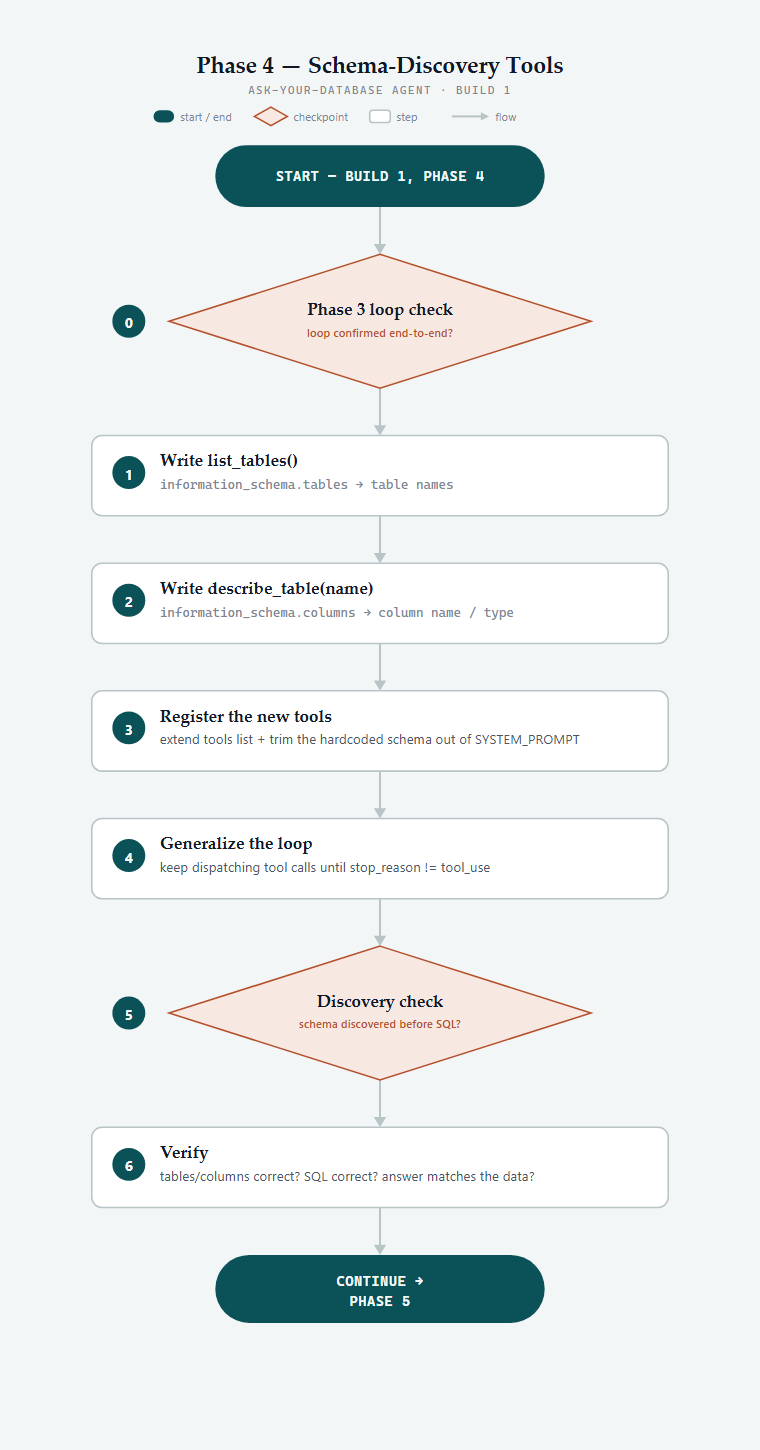
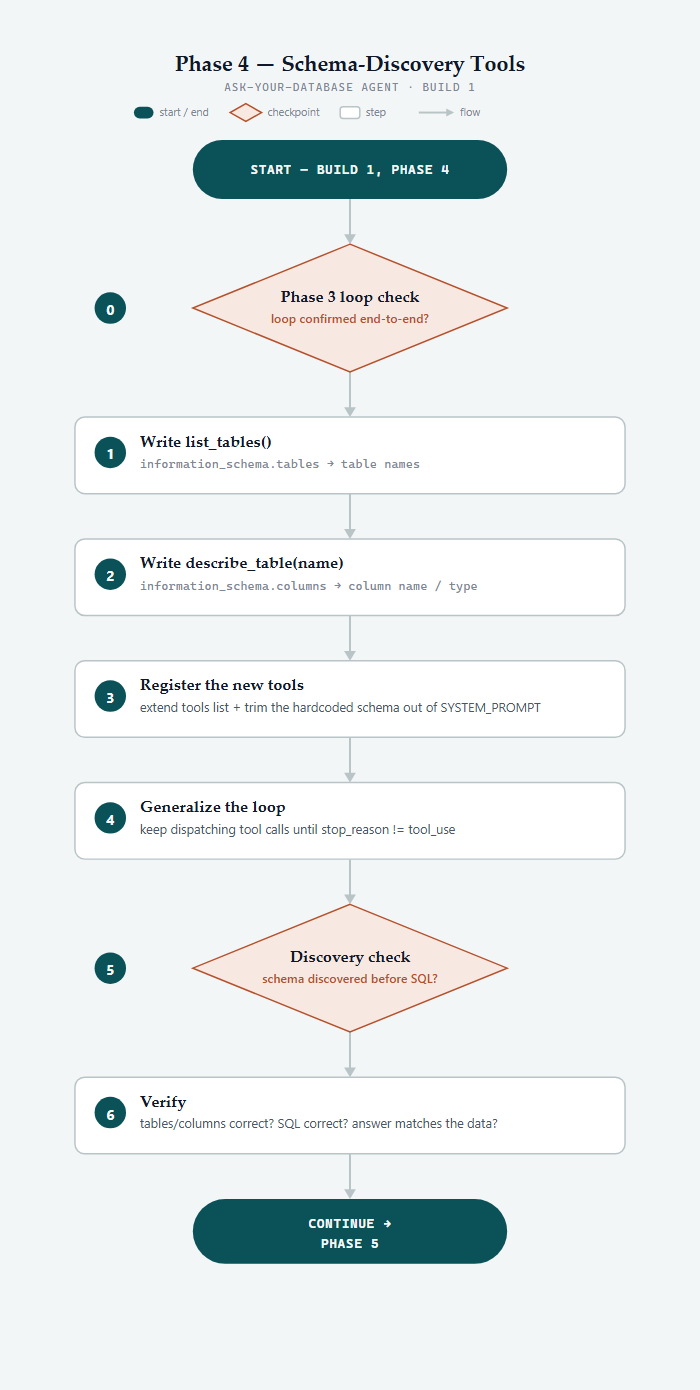
Fix diamond text overflow across diagrams, add hardening-pass diagram
phase4 and phase6 had decision-q text overflowing the diamond nodes'
actual rendered bounds - the fix was previously applied only to the
rendered PNGs and never written back into the SVG/HTML source, so it
silently regressed. Shortened decision-q text on both and re-verified
every diagram visually (rendered PNG, not just source) rather than
trusting the diff.

Also corrects phase6's end pill, which claimed Build 1 was complete
before the loop-cap/error-handling hardening pass actually happened,
and adds a new diagram for that hardening pass plus one for Build 2
Phase 1 (the raw ingestion layer).

diff --git a/PROJECT_DIAGRAMS/build1-hardening-pass-flow-diagram.html b/PROJECT_DIAGRAMS/build1-hardening-pass-flow-diagram.html
@@ -2,7 +2,7 @@
 <html lang="en">
 <head>
 <meta charset="UTF-8">
-<title>Phase 6 Flow — Containerize the Agent</title>
+<title>Build 1 Hardening Pass Flow — Loop Safety &amp; Error Handling</title>
 <style>
   * { box-sizing: border-box; }
   html, body { margin: 0; background: #F3F6F7; }
@@ -14,8 +14,8 @@
 <body>
 <div class="frame">
 <svg xmlns="http://www.w3.org/2000/svg" viewBox="0 0 680 1300" width="680" height="1300" role="img" aria-labelledby="title desc">
-  <title id="title">Phase 6 flow: containerizing the agent as a compose service</title>
-  <desc id="desc">Flowchart: start, a checkpoint confirming Phase 5's hardening (read-only role, SQL guard, query logging) is committed and verified, writing a Dockerfile for the agent, adding an agent service to docker-compose.yml, switching the database host to the internal Docker network service name, wiring secrets into the container via env_file, a decision testing that docker compose up starts and connects the agent, a verify step, then Build 1 is complete and continues to Build 2.</desc>
+  <title id="title">Build 1 hardening pass flow: loop safety and error handling</title>
+  <desc id="desc">Flowchart: start, a checkpoint confirming Phase 6's containerized agent is committed, fixing a multi-tool-call bug where try/except sat outside the results loop, adding a MAX_TOOL_TURNS cap with while/else, wrapping the Anthropic API call for error handling, auditing every project file for indentation and syntax, a decision testing the loop cap fires cleanly, a verify step, then Build 1 is truly complete and continues to Build 2.</desc>
   <style>
     text { font-family: -apple-system, BlinkMacSystemFont, "Segoe UI", Roboto, sans-serif; fill: #101827; }
     .heading    { font-family: "Iowan Old Style", "Palatino Linotype", Palatino, "Book Antiqua", Georgia, serif; font-size: 22px; font-weight: 600; }
@@ -38,8 +38,8 @@
 
   <rect x="0" y="0" width="680" height="1300" fill="#F3F6F7"/>
 
-  <text x="340" y="40" class="heading" text-anchor="middle">Phase 6 — Containerize the Agent</text>
-  <text x="340" y="60" class="subheading" text-anchor="middle">ASK-YOUR-DATABASE AGENT · BUILD 1</text>
+  <text x="340" y="40" class="heading" text-anchor="middle">Build 1 Hardening Pass</text>
+  <text x="340" y="60" class="subheading" text-anchor="middle">LOOP SAFETY &amp; ERROR HANDLING · BUILD 1</text>
 
   <!-- legend -->
   <g>
@@ -84,16 +84,16 @@
   <!-- Start pill -->
   <g>
     <rect class="pill-node" x="180" y="110" width="320" height="60" rx="30"/>
-    <text class="pill-text" x="340" y="145">START — BUILD 1, PHASE 6</text>
+    <text class="pill-text" x="340" y="145">START — HARDENING PASS</text>
   </g>
 
-  <!-- Decision: Phase 5 checkpoint -->
+  <!-- Decision: Phase 6 checkpoint -->
   <g>
     <polygon class="diamond-node" points="340,216 500,281 340,346 180,281"/>
     <circle class="badge" cx="96" cy="281" r="16"/>
     <text class="badge-text" x="96" y="282">0</text>
-    <text class="decision-title" x="340" y="275">Phase 5 check</text>
-    <text class="decision-q" x="340" y="296">Phase 5 hardening committed &amp; verified?</text>
+    <text class="decision-title" x="340" y="275">Phase 6 check</text>
+    <text class="decision-q" x="340" y="296">containerized agent committed?</text>
   </g>
 
   <!-- Step 1 -->
@@ -101,8 +101,8 @@
     <rect class="rect-node" x="60" y="392" width="560" height="78" rx="10"/>
     <circle class="badge" cx="96" cy="428" r="16"/>
     <text class="badge-text" x="96" y="429">1</text>
-    <text class="step-label" x="126" y="422">Write the Dockerfile</text>
-    <text class="step-mono" x="126" y="444">FROM python:3.12-slim — copy agent.py &amp; tools.py, install requirements</text>
+    <text class="step-label" x="126" y="422">Fix the multi-tool-call bug</text>
+    <text class="step-desc" x="126" y="444">try/except moved inside the results loop — every tool_use gets a tool_result</text>
   </g>
 
   <!-- Step 2 -->
@@ -110,8 +110,8 @@
     <rect class="rect-node" x="60" y="516" width="560" height="78" rx="10"/>
     <circle class="badge" cx="96" cy="552" r="16"/>
     <text class="badge-text" x="96" y="553">2</text>
-    <text class="step-label" x="126" y="546">Add the agent service</text>
-    <text class="step-desc" x="126" y="568">new service block in docker-compose.yml — depends_on: postgres</text>
+    <text class="step-label" x="126" y="546">Cap the tool-use loop</text>
+    <text class="step-mono" x="126" y="568">MAX_TOOL_TURNS = 10 — while turn &lt; cap, else: stopped message</text>
   </g>
 
   <!-- Step 3 -->
@@ -119,8 +119,8 @@
     <rect class="rect-node" x="60" y="640" width="560" height="78" rx="10"/>
     <circle class="badge" cx="96" cy="676" r="16"/>
     <text class="badge-text" x="96" y="677">3</text>
-    <text class="step-label" x="126" y="670">Switch to the internal network</text>
-    <text class="step-desc" x="126" y="692">DB host changes from localhost to service name postgres — same Docker network</text>
+    <text class="step-label" x="126" y="670">Handle API errors</text>
+    <text class="step-mono" x="126" y="692">try/except anthropic.APIError around messages.create</text>
   </g>
 
   <!-- Step 4 -->
@@ -128,17 +128,17 @@
     <rect class="rect-node" x="60" y="764" width="560" height="78" rx="10"/>
     <circle class="badge" cx="96" cy="800" r="16"/>
     <text class="badge-text" x="96" y="801">4</text>
-    <text class="step-label" x="126" y="794">Wire secrets into the container</text>
-    <text class="step-desc" x="126" y="816">pass .env via env_file: in compose — never baked into the image</text>
+    <text class="step-label" x="126" y="794">Audit every file</text>
+    <text class="step-desc" x="126" y="816">read-only indentation/syntax pass across the whole project</text>
   </g>
 
-  <!-- Decision: build & run test -->
+  <!-- Decision: loop-cap test -->
   <g>
     <polygon class="diamond-node" points="340,888 500,953 340,1018 180,953"/>
     <circle class="badge" cx="96" cy="953" r="16"/>
     <text class="badge-text" x="96" y="954">5</text>
-    <text class="decision-title" x="340" y="947">Build &amp; run test</text>
-    <text class="decision-q" x="340" y="968">container starts &amp; reaches Postgres?</text>
+    <text class="decision-title" x="340" y="947">Loop-cap test</text>
+    <text class="decision-q" x="340" y="968">cap set to 1 — stops cleanly via else?</text>
   </g>
 
   <!-- Step 6 -->
@@ -147,14 +147,14 @@
     <circle class="badge" cx="96" cy="1100" r="16"/>
     <text class="badge-text" x="96" y="1101">6</text>
     <text class="step-label" x="126" y="1094">Verify</text>
-    <text class="step-desc" x="126" y="1116">test question answered end-to-end? still using appdb_reader? logs visible?</text>
+    <text class="step-desc" x="126" y="1116">no regression on the baseline test? guard &amp; read-only role still hold?</text>
   </g>
 
   <!-- End pill -->
   <g>
     <rect class="pill-node" x="180" y="1188" width="320" height="66" rx="33"/>
-    <text class="pill-text" x="340" y="1218">CONTINUE →</text>
-    <text class="pill-text" x="340" y="1238">HARDENING PASS</text>
+    <text class="pill-text" x="340" y="1218">BUILD 1 COMPLETE →</text>
+    <text class="pill-text" x="340" y="1238">BUILD 2</text>
   </g>
 </svg>
 </div>

diff --git a/PROJECT_DIAGRAMS/build2-phase1-flow-diagram.html b/PROJECT_DIAGRAMS/build2-phase1-flow-diagram.html
@@ -2,7 +2,7 @@
 <html lang="en">
 <head>
 <meta charset="UTF-8">
-<title>Phase 6 Flow — Containerize the Agent</title>
+<title>Build 2, Phase 1 Flow — The Raw Ingestion Layer</title>
 <style>
   * { box-sizing: border-box; }
   html, body { margin: 0; background: #F3F6F7; }
@@ -14,8 +14,8 @@
 <body>
 <div class="frame">
 <svg xmlns="http://www.w3.org/2000/svg" viewBox="0 0 680 1300" width="680" height="1300" role="img" aria-labelledby="title desc">
-  <title id="title">Phase 6 flow: containerizing the agent as a compose service</title>
-  <desc id="desc">Flowchart: start, a checkpoint confirming Phase 5's hardening (read-only role, SQL guard, query logging) is committed and verified, writing a Dockerfile for the agent, adding an agent service to docker-compose.yml, switching the database host to the internal Docker network service name, wiring secrets into the container via env_file, a decision testing that docker compose up starts and connects the agent, a verify step, then Build 1 is complete and continues to Build 2.</desc>
+  <title id="title">Build 2, Phase 1 flow: the raw ingestion layer</title>
+  <desc id="desc">Flowchart: start, a checkpoint confirming Build 1's Ask-Your-Database agent is committed and hardened, picking a messy raw data source, creating a raw staging table with minimal constraints, writing a Python ingestion script, running the ingestion, a decision checking the row count matches the source file exactly, a verify step spot-checking that messiness was preserved, then continue to Phase 2.</desc>
   <style>
     text { font-family: -apple-system, BlinkMacSystemFont, "Segoe UI", Roboto, sans-serif; fill: #101827; }
     .heading    { font-family: "Iowan Old Style", "Palatino Linotype", Palatino, "Book Antiqua", Georgia, serif; font-size: 22px; font-weight: 600; }
@@ -38,8 +38,8 @@
 
   <rect x="0" y="0" width="680" height="1300" fill="#F3F6F7"/>
 
-  <text x="340" y="40" class="heading" text-anchor="middle">Phase 6 — Containerize the Agent</text>
-  <text x="340" y="60" class="subheading" text-anchor="middle">ASK-YOUR-DATABASE AGENT · BUILD 1</text>
+  <text x="340" y="40" class="heading" text-anchor="middle">Build 2, Phase 1 — The Raw Ingestion Layer</text>
+  <text x="340" y="60" class="subheading" text-anchor="middle">RAW-TO-QUERYABLE PIPELINE · BUILD 2</text>
 
   <!-- legend -->
   <g>
@@ -84,16 +84,16 @@
   <!-- Start pill -->
   <g>
     <rect class="pill-node" x="180" y="110" width="320" height="60" rx="30"/>
-    <text class="pill-text" x="340" y="145">START — BUILD 1, PHASE 6</text>
+    <text class="pill-text" x="340" y="145">START — BUILD 2, PHASE 1</text>
   </g>
 
-  <!-- Decision: Phase 5 checkpoint -->
+  <!-- Decision: Build 1 checkpoint -->
   <g>
     <polygon class="diamond-node" points="340,216 500,281 340,346 180,281"/>
     <circle class="badge" cx="96" cy="281" r="16"/>
     <text class="badge-text" x="96" y="282">0</text>
-    <text class="decision-title" x="340" y="275">Phase 5 check</text>
-    <text class="decision-q" x="340" y="296">Phase 5 hardening committed &amp; verified?</text>
+    <text class="decision-title" x="340" y="275">Build 1 check</text>
+    <text class="decision-q" x="340" y="296">Build 1 agent committed &amp; hardened?</text>
   </g>
 
   <!-- Step 1 -->
@@ -101,8 +101,8 @@
     <rect class="rect-node" x="60" y="392" width="560" height="78" rx="10"/>
     <circle class="badge" cx="96" cy="428" r="16"/>
     <text class="badge-text" x="96" y="429">1</text>
-    <text class="step-label" x="126" y="422">Write the Dockerfile</text>
-    <text class="step-mono" x="126" y="444">FROM python:3.12-slim — copy agent.py &amp; tools.py, install requirements</text>
+    <text class="step-label" x="126" y="422">Pick the raw data source</text>
+    <text class="step-desc" x="126" y="444">a CSV export with real-world messiness — inconsistent casing, whitespace, mixed formats</text>
   </g>
 
   <!-- Step 2 -->
@@ -110,8 +110,8 @@
     <rect class="rect-node" x="60" y="516" width="560" height="78" rx="10"/>
     <circle class="badge" cx="96" cy="552" r="16"/>
     <text class="badge-text" x="96" y="553">2</text>
-    <text class="step-label" x="126" y="546">Add the agent service</text>
-    <text class="step-desc" x="126" y="568">new service block in docker-compose.yml — depends_on: postgres</text>
+    <text class="step-label" x="126" y="546">Create the raw staging table</text>
+    <text class="step-mono" x="126" y="568">CREATE TABLE raw.&lt;name&gt; — TEXT columns, no constraints, mirrors the source</text>
   </g>
 
   <!-- Step 3 -->
@@ -119,8 +119,8 @@
     <rect class="rect-node" x="60" y="640" width="560" height="78" rx="10"/>
     <circle class="badge" cx="96" cy="676" r="16"/>
     <text class="badge-text" x="96" y="677">3</text>
-    <text class="step-label" x="126" y="670">Switch to the internal network</text>
-    <text class="step-desc" x="126" y="692">DB host changes from localhost to service name postgres — same Docker network</text>
+    <text class="step-label" x="126" y="670">Write the ingestion script</text>
+    <text class="step-desc" x="126" y="692">Python reads the file and loads rows into the raw table, unmodified</text>
   </g>
 
   <!-- Step 4 -->
@@ -128,17 +128,17 @@
     <rect class="rect-node" x="60" y="764" width="560" height="78" rx="10"/>
     <circle class="badge" cx="96" cy="800" r="16"/>
     <text class="badge-text" x="96" y="801">4</text>
-    <text class="step-label" x="126" y="794">Wire secrets into the container</text>
-    <text class="step-desc" x="126" y="816">pass .env via env_file: in compose — never baked into the image</text>
+    <text class="step-label" x="126" y="794">Run the ingestion</text>
+    <text class="step-mono" x="126" y="816">python ingest.py — ETL's E and L, no T yet</text>
   </g>
 
-  <!-- Decision: build & run test -->
+  <!-- Decision: row-count check -->
   <g>
     <polygon class="diamond-node" points="340,888 500,953 340,1018 180,953"/>
     <circle class="badge" cx="96" cy="953" r="16"/>
     <text class="badge-text" x="96" y="954">5</text>
-    <text class="decision-title" x="340" y="947">Build &amp; run test</text>
-    <text class="decision-q" x="340" y="968">container starts &amp; reaches Postgres?</text>
+    <text class="decision-title" x="340" y="947">Row-count check</text>
+    <text class="decision-q" x="340" y="968">raw row count matches the source file?</text>
   </g>
 
   <!-- Step 6 -->
@@ -147,14 +147,14 @@
     <circle class="badge" cx="96" cy="1100" r="16"/>
     <text class="badge-text" x="96" y="1101">6</text>
     <text class="step-label" x="126" y="1094">Verify</text>
-    <text class="step-desc" x="126" y="1116">test question answered end-to-end? still using appdb_reader? logs visible?</text>
+    <text class="step-desc" x="126" y="1116">spot-check a few rows — messiness preserved, nothing silently cleaned?</text>
   </g>
 
   <!-- End pill -->
   <g>
     <rect class="pill-node" x="180" y="1188" width="320" height="66" rx="33"/>
     <text class="pill-text" x="340" y="1218">CONTINUE →</text>
-    <text class="pill-text" x="340" y="1238">HARDENING PASS</text>
+    <text class="pill-text" x="340" y="1238">PHASE 2</text>
   </g>
 </svg>
 </div>

diff --git a/PROJECT_DIAGRAMS/phase4-flow-diagram.html b/PROJECT_DIAGRAMS/phase4-flow-diagram.html
@@ -93,7 +93,7 @@
     <circle class="badge" cx="96" cy="281" r="16"/>
     <text class="badge-text" x="96" y="282">0</text>
     <text class="decision-title" x="340" y="275">Phase 3 loop check</text>
-    <text class="decision-q" x="340" y="296">single-shot round trip confirmed end-to-end?</text>
+    <text class="decision-q" x="340" y="296">loop confirmed end-to-end?</text>
   </g>
 
   <!-- Step 1 -->
@@ -138,7 +138,7 @@
     <circle class="badge" cx="96" cy="953" r="16"/>
     <text class="badge-text" x="96" y="954">5</text>
     <text class="decision-title" x="340" y="947">Discovery check</text>
-    <text class="decision-q" x="340" y="968">model calls list_tables / describe_table before writing SQL?</text>
+    <text class="decision-q" x="340" y="968">schema discovered before SQL?</text>
   </g>
 
   <!-- Step 6 -->
